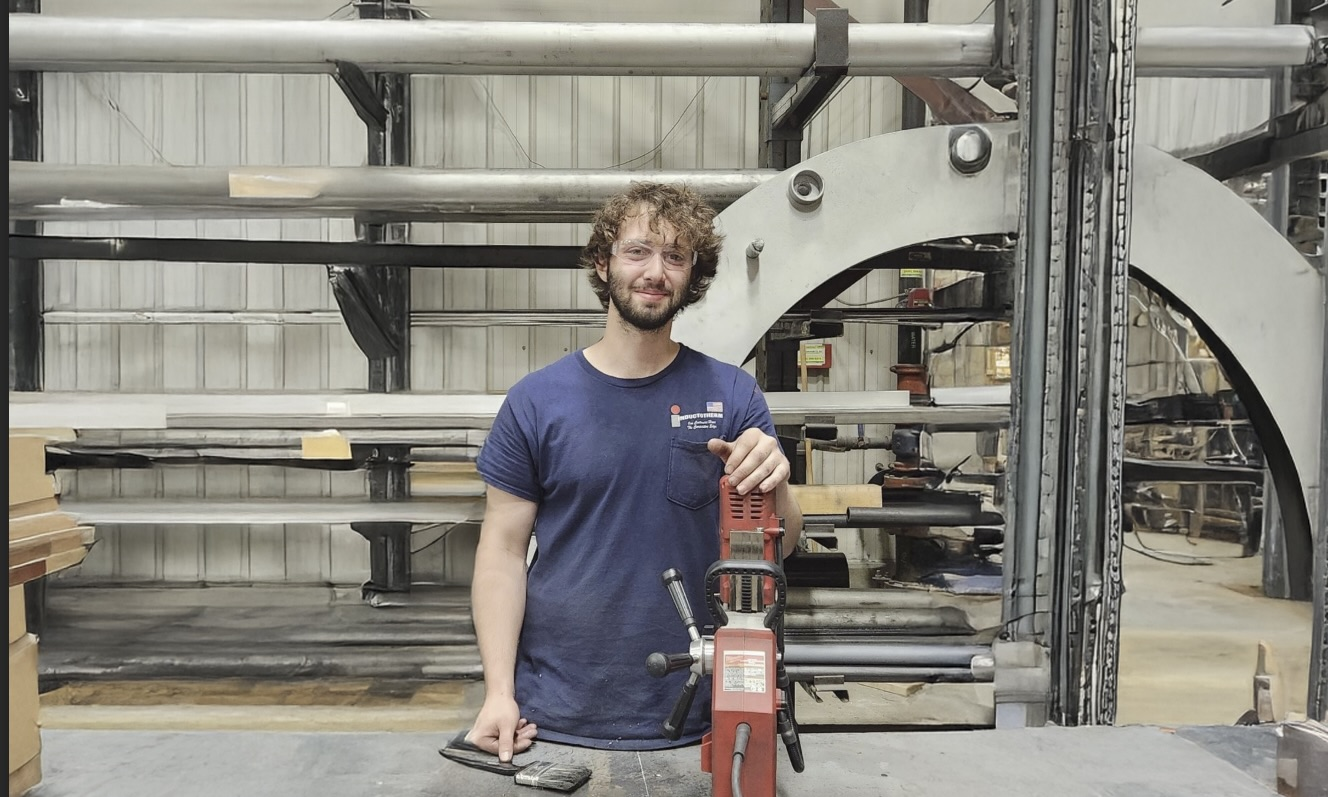
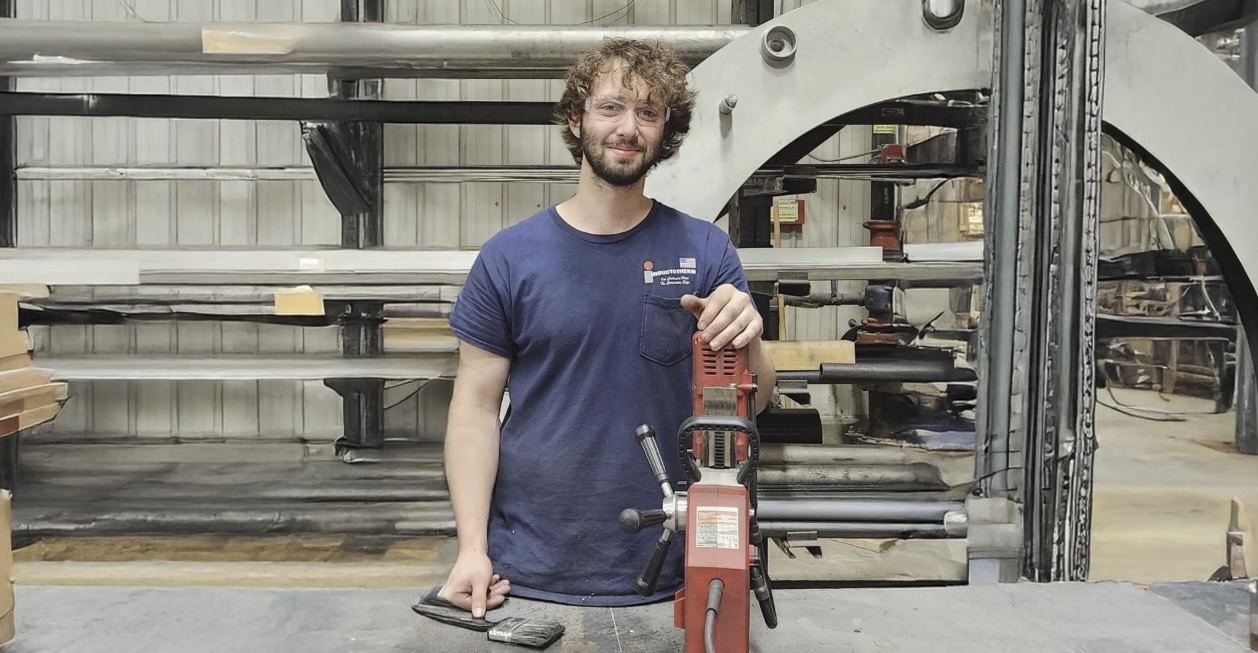
Fixed Jonahs picture and removed Nas from pages

diff --git a/src/pages/robotic-mining/RoboticMiningStyles.tsx b/src/pages/robotic-mining/RoboticMiningStyles.tsx
@@ -10,9 +10,9 @@ export const MEET_THE_TEAM: GalleryImage[] = [
 	{ image: RMC_TEAM[2], title: 'Malin Kussi', description: 'Vice President' },
 	{ image: RMC_TEAM[3], title: 'Jared Levin', description: 'Electrical Lead' },
 	{ image: RMC_TEAM[4], title: 'Alessia Smith', description: 'Mechanical Lead' },
-	{ image: RMC_TEAM[5], title: 'Nasier Fowlkes', description: 'Web Manager' },
-	{ image: RMC_TEAM[6], title: 'Brian Ervin', description: 'Programming Lead' },
-	{ image: RMC_TEAM[7], title: 'Tanishka Shah', description: 'Project Manager' }
+	{ image: RMC_TEAM[5], title: 'Brian Ervin', description: 'Programming Lead' },
+	{ image: RMC_TEAM[6], title: 'Tanishka Shah', description: 'Project Manager' },
+	{ image: RMC_TEAM[7], title: 'Jonah Tesler', description: 'Shop Manager' }
 ]
 
 export default class RoboticMiningStyles {

diff --git a/src/tools/Constants.tsx b/src/tools/Constants.tsx
@@ -36,9 +36,9 @@ export const RMC_TEAM = [
 	require('../assets/pics/Leads/Malins_face.jpg'),
 	require('../assets/pics/Leads/jareds_face.jpg'),
 	require('../assets/pics/Leads/Alessia_headshot.png'),
-	require('../assets/pics/Leads/Nasiers_face.jpg'),
 	require('../assets/pics/Leads/Brians_face.jpg'),
-	require('../assets/pics/Leads/Tanishkas_face.jpg')
+	require('../assets/pics/Leads/Tanishkas_face.jpg'),
+	require('../assets/pics/Leads/Jonah_Face.jpeg')
 ]
 
 export const RMC_PHOTO_GALLERY = [
